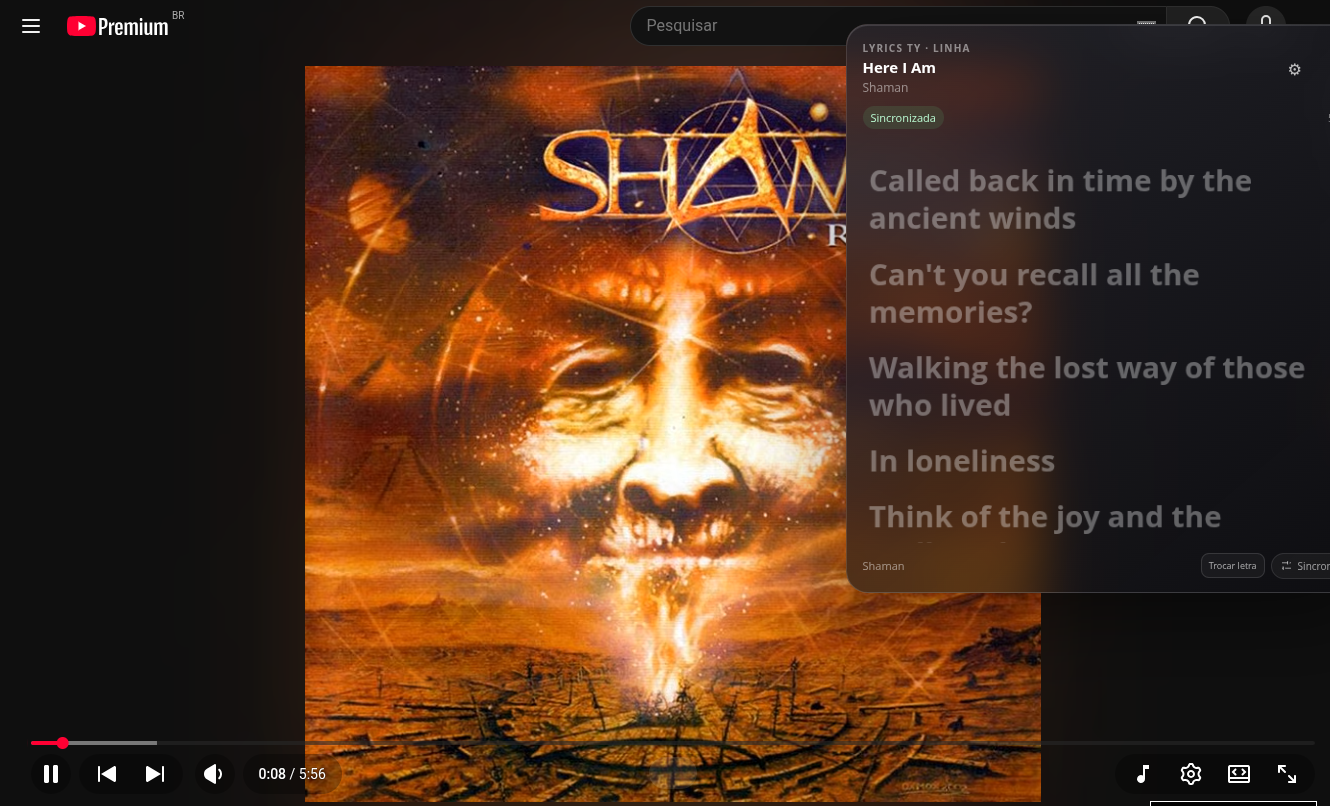
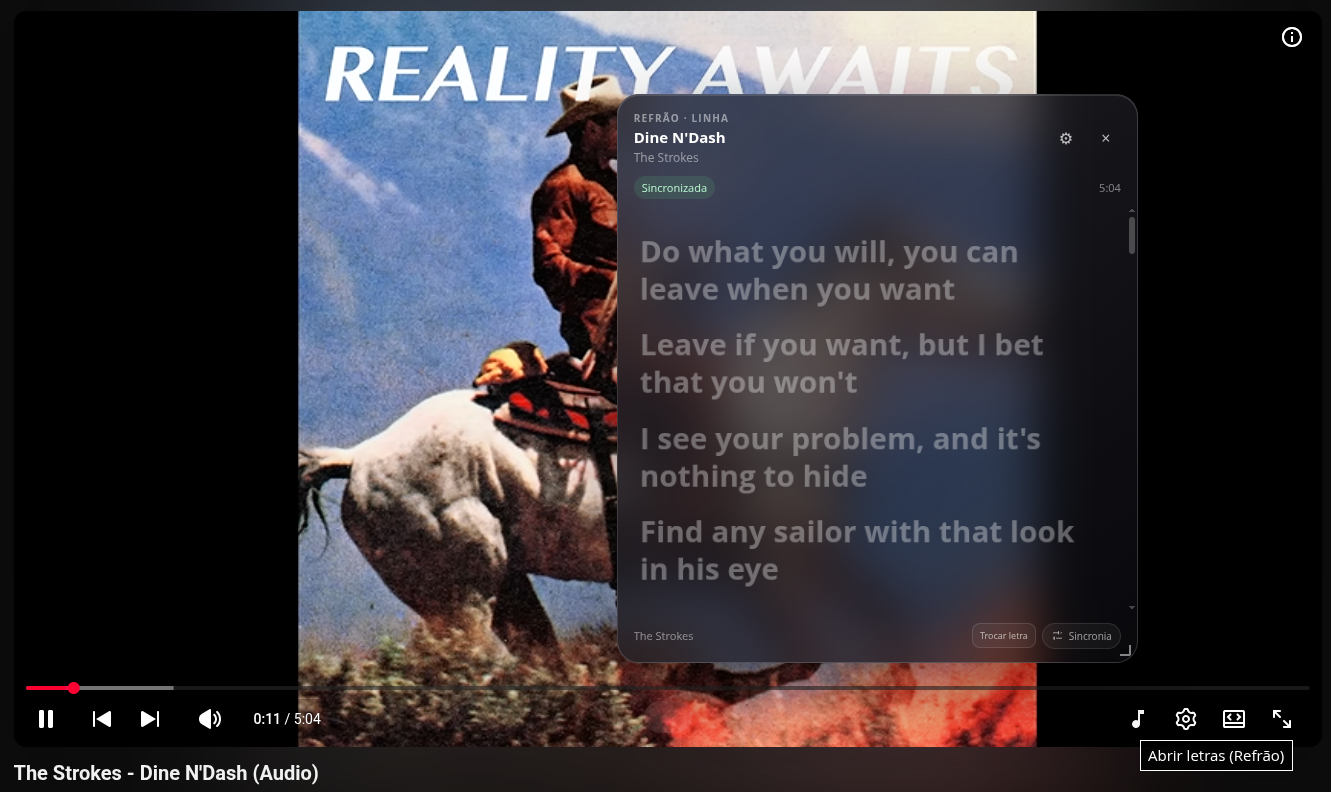
docs: atualiza captura do Refrão no README

diff --git a/README.md b/README.md
@@ -2,7 +2,7 @@
 
 Uma extensão para acompanhar a letra enquanto você ouve música no YouTube. O verso que está sendo cantado ganha destaque, e a letra rola junto com a música.
 
-![Refrão mostrando a letra de Here I Am, do Shaman, sobre o vídeo no YouTube](docs/images/refrao-youtube.png)
+![Refrão mostrando a letra de Dine N'Dash, do The Strokes, sobre o vídeo no YouTube](docs/images/refrao-youtube.png)
 
 Funciona no Chrome e no Microsoft Edge, no computador. As letras vêm do [LRCLIB](https://lrclib.net), e a sincronização depende da versão disponível por lá. Não precisa criar conta.
 
